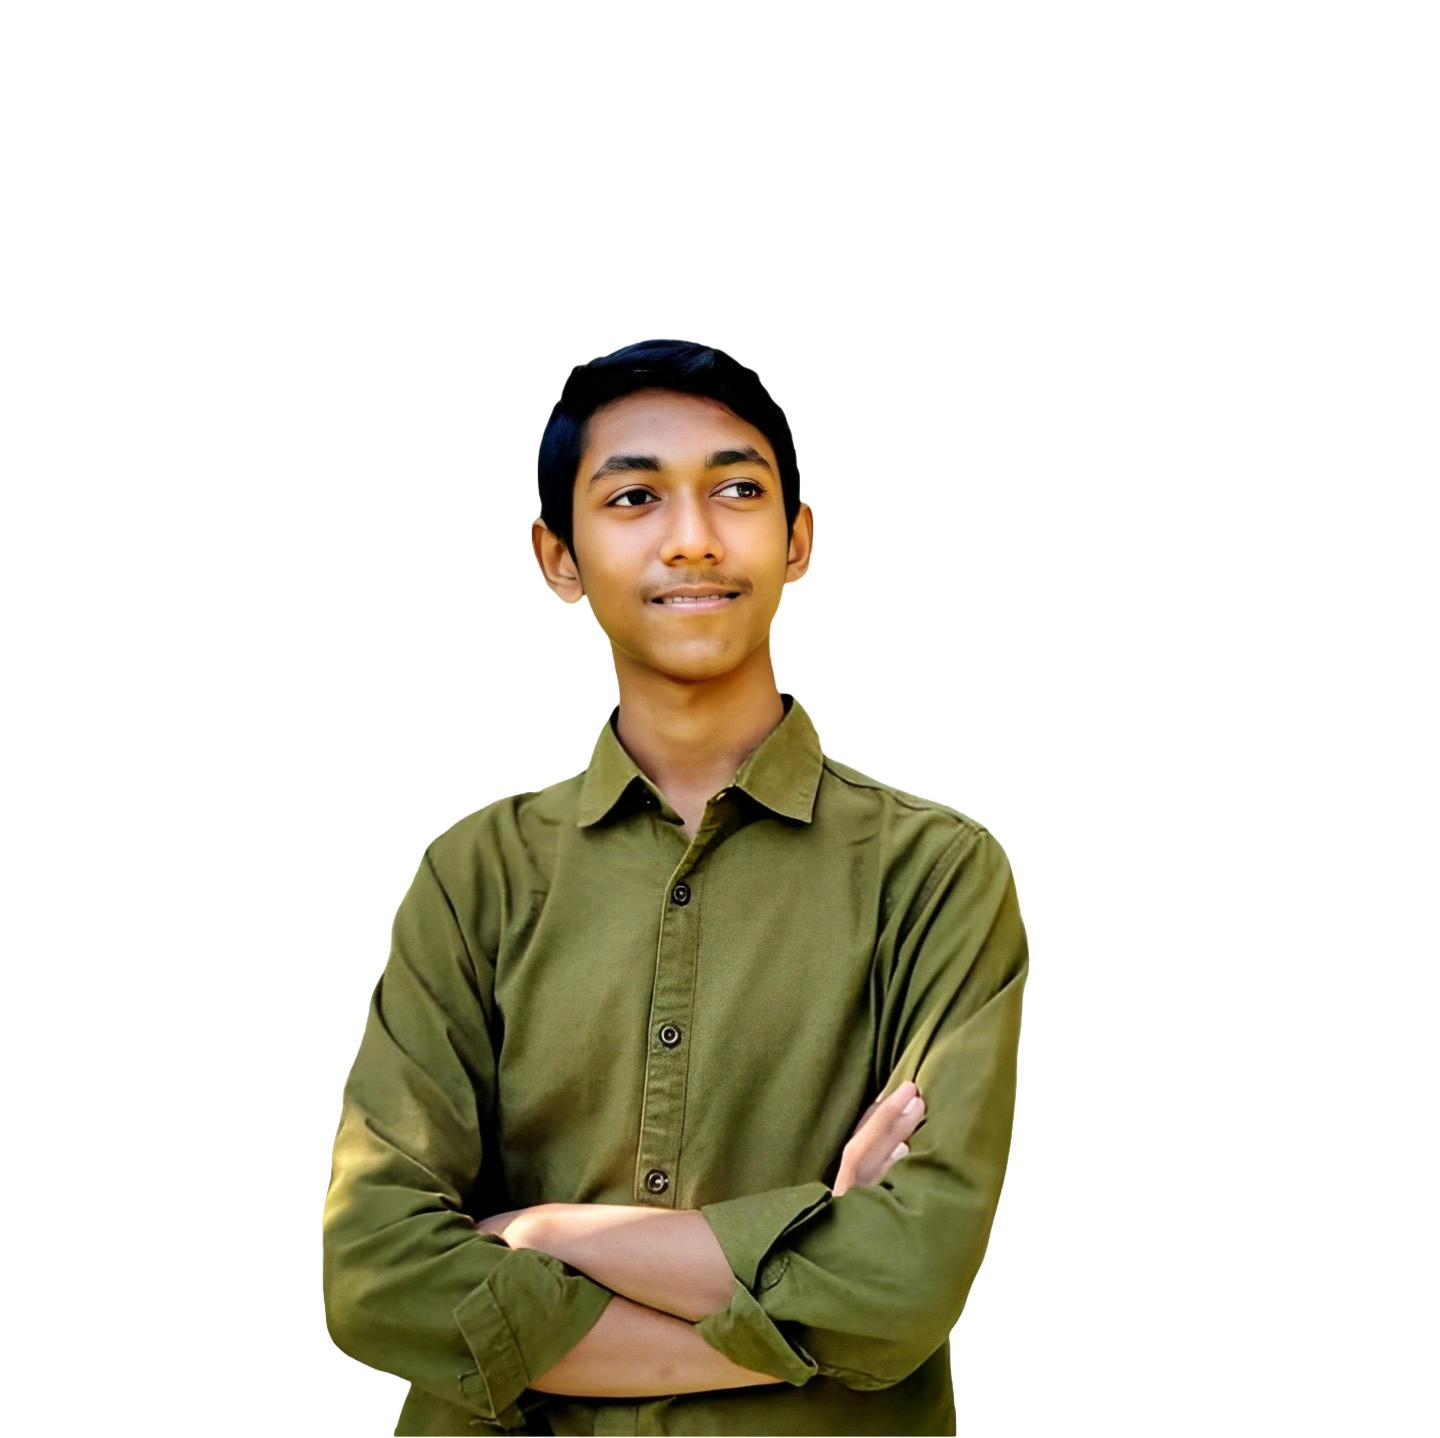
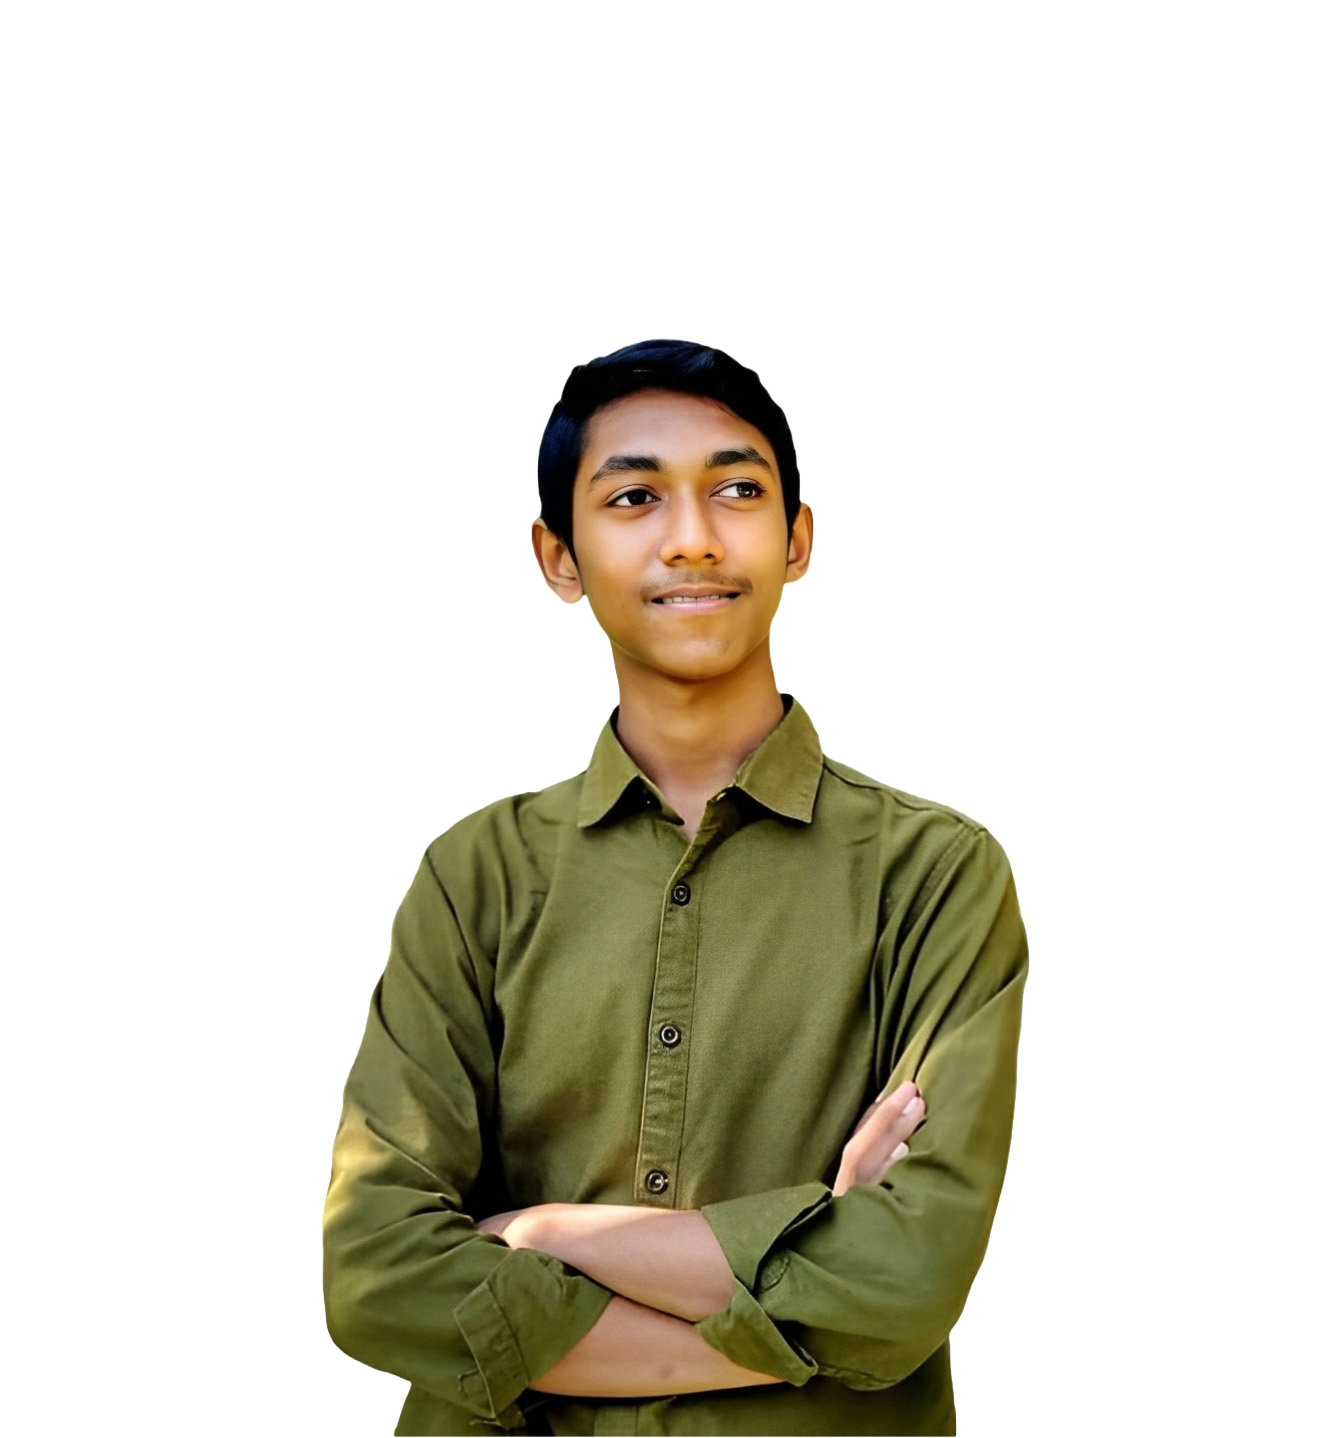
Updated Resposive

Changed region(s): [[0.2178, 0.2142, 0.7777, 1.0]]

diff --git a/style.css b/style.css
@@ -244,7 +244,7 @@ footer input[type="text"],footer input[type="email"],footer textarea {
         margin: 20px;
     }
     .banner-profile-picture{
-        width: 100%;
+        max-width: 100%;
         height: auto;
     }
     .header{
